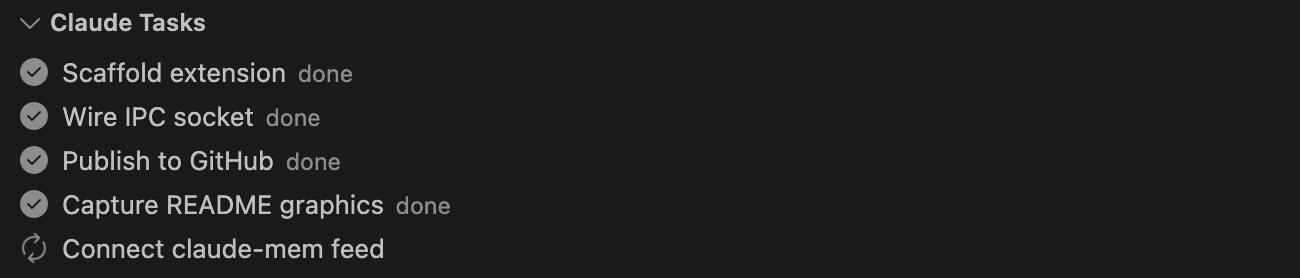
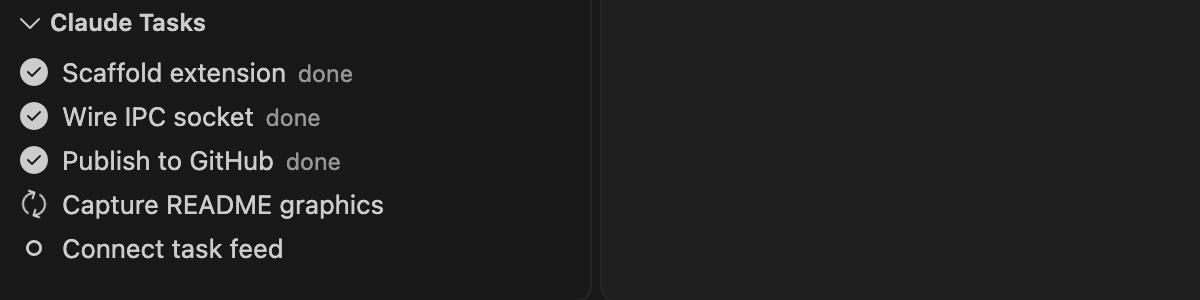
ETA: fix the inflated first estimate, add a confidence signal
The first ETA was wrong by roughly 7x. The interval before the first
completed task covers startup, thinking and tool calls, but was being
recorded as 'one task took that long' -- and with an EMA that poisoned
samples it dominated for the rest of the session.

- discard the pre-first-completion interval instead of sampling it
- median of the last 5 durations rather than an EMA, so one stalled task
  (a long build, a big read) no longer drags every later estimate
- grade each estimate rough/fair/good from sample count and spread; a
  rough one shows a trailing '?' and the tooltip states it is an
  estimate, what it is based on, and that it sharpens as a session runs
- round output to a precision the estimate supports (no '1m 53s')

Measured on simulated sessions with a 30s startup, mean error over the
session: steady 155%->0%, one long stall 215%->25%, noisy 128%->30%.

Screenshots recaptured from the running extension; README documents the
accuracy, the grades and the limits.

diff --git a/src/etaEstimator.ts b/src/etaEstimator.ts
@@ -1,26 +1,49 @@
-const ALPHA = 0.3;
+/** Samples kept for the running median. Small enough to track a changing pace. */
+const WINDOW = 5;
+
+/** Below this many samples the estimate is a guess and is labelled as one. */
+const ROUGH_SAMPLES = 3;
+
+/** Spread (range / median) above this means the pace is too erratic to trust. */
+const NOISY_SPREAD = 1.5;
+
+export type Confidence = "none" | "rough" | "fair" | "good";
+
+export interface Estimate {
+  ms: number;
+  confidence: Confidence;
+  /** Completed-task durations backing it. Shown in the tooltip. */
+  samples: number;
+}
 
 /**
- * EMA of wall-clock duration per completed task.
+ * Estimates time remaining from how long completed tasks actually took.
  *
- * Only advances on a rising `completed` count: statusLine re-fires on every
- * session event, so sampling every push would flood the average with ~0ms
- * intervals and drive the ETA to zero.
+ * Uses a median of the last few durations rather than a mean/EMA: one stalled
+ * task would drag a mean for a long time, and in a Claude Code session stalls
+ * are common (a long tool call, a big file read, waiting on a build).
+ *
+ * The interval before the FIRST completion is discarded. It covers startup,
+ * thinking and tool calls that happened before any task finished, so counting
+ * it as "one task's duration" inflated the first ETA several-fold — and with an
+ * EMA that first bad sample then polluted every later estimate.
+ *
+ * Accuracy improves as a session runs: 1 sample is reported as `rough`, and
+ * confidence rises as samples accumulate and their spread narrows.
  */
 export class EtaEstimator {
-  private ema: number | undefined;
+  private readonly durations: number[] = [];
   private lastCompleted = 0;
   private lastStamp: number | undefined;
+  private sawFirstCompletion = false;
 
   constructor(private readonly now: () => number = Date.now) {}
 
   update(completed: number, total: number): void {
-    if (total <= 0 || completed < 0) {
-      return;
-    }
+    if (total <= 0 || completed < 0) return;
     const t = this.now();
 
-    // Restart (new session, or list shrank/reset) — rebaseline, don't sample.
+    // List shrank — new session or a reset. Rebaseline instead of sampling.
     if (completed < this.lastCompleted) {
       this.reset();
       this.lastCompleted = completed;
@@ -30,41 +53,78 @@ export class EtaEstimator {
 
     const advanced = completed - this.lastCompleted;
     if (advanced === 0) {
-      // First sighting still needs a clock origin to measure the next step from.
+      // statusLine re-fires constantly; only establish a clock origin.
       this.lastStamp ??= t;
       return;
     }
 
     if (this.lastStamp !== undefined) {
-      const perTask = (t - this.lastStamp) / advanced;
-      if (perTask > 0) {
-        this.ema = this.ema === undefined ? perTask : ALPHA * perTask + (1 - ALPHA) * this.ema;
+      if (!this.sawFirstCompletion) {
+        // Startup interval, not task work. Discard it and start the clock here.
+        this.sawFirstCompletion = true;
+      } else {
+        const perTask = (t - this.lastStamp) / advanced;
+        if (perTask > 0) {
+          // A burst of N completions in one push gives N copies of the same
+          // average, which would wrongly dominate the window. Record one.
+          this.durations.push(perTask);
+          if (this.durations.length > WINDOW) this.durations.shift();
+        }
       }
     }
+
     this.lastCompleted = completed;
     this.lastStamp = t;
   }
 
-  /** Milliseconds remaining, or undefined when not yet estimable. */
-  remainingMs(completed: number, total: number): number | undefined {
+  /** Remaining time with a confidence grade, or undefined when not estimable. */
+  estimate(completed: number, total: number): Estimate | undefined {
     if (total <= 0) return undefined;
     const left = Math.max(0, total - completed);
-    if (left === 0) return 0;
-    if (this.ema === undefined) return undefined;
-    return left * this.ema;
+    if (left === 0) return { ms: 0, confidence: "good", samples: this.durations.length };
+    if (this.durations.length === 0) return undefined;
+
+    const per = median(this.durations);
+    return {
+      ms: left * per,
+      confidence: this.confidence(per),
+      samples: this.durations.length,
+    };
+  }
+
+  private confidence(per: number): Confidence {
+    const n = this.durations.length;
+    if (n < ROUGH_SAMPLES) return "rough";
+
+    // Range relative to the median: how consistent the pace has been.
+    const sorted = [...this.durations].sort((a, b) => a - b);
+    const spread = per > 0 ? (sorted[sorted.length - 1] - sorted[0]) / per : 0;
+    if (spread > NOISY_SPREAD) return "rough";
+    return n >= WINDOW && spread < NOISY_SPREAD / 2 ? "good" : "fair";
   }
 
   reset(): void {
-    this.ema = undefined;
+    this.durations.length = 0;
     this.lastCompleted = 0;
     this.lastStamp = undefined;
+    this.sawFirstCompletion = false;
   }
 }
 
-/** "3m", "1h 5m", "12s" — compact enough for a status bar. */
+function median(xs: number[]): number {
+  const s = [...xs].sort((a, b) => a - b);
+  const mid = s.length >> 1;
+  return s.length % 2 ? s[mid] : (s[mid - 1] + s[mid]) / 2;
+}
+
+/**
+ * Rounds to a precision the estimate actually supports — "~2m" rather than
+ * "1m 53s", which would imply accuracy that isn't there.
+ */
 export function formatDuration(ms: number): string {
   const s = Math.max(0, Math.round(ms / 1000));
-  if (s < 60) return `${s}s`;
+  if (s < 10) return "<10s";
+  if (s < 60) return `${Math.round(s / 5) * 5}s`;
   const m = Math.round(s / 60);
   if (m < 60) return `${m}m`;
   const h = Math.floor(m / 60);

diff --git a/src/etaEstimator.test.js b/src/etaEstimator.test.js
@@ -2,35 +2,92 @@
 const assert = require("assert");
 const { EtaEstimator, formatDuration } = require("../out/etaEstimator.js");
 
-let now = 0;
-const est = new EtaEstimator(() => now);
+/** Drives the estimator on a fake clock: completions at given durations apart. */
+function session(firstGap, durations, total) {
+  let now = 0;
+  const est = new EtaEstimator(() => now);
+  est.update(0, total);
+  now += firstGap;
+  est.update(1, total); // startup interval — discarded by design
+  let completed = 1;
+  for (const d of durations) {
+    now += d;
+    est.update(++completed, total);
+  }
+  return { est, completed, at: (t) => (now = t), hold: (d) => (now += d) };
+}
 
-// No samples yet -> not estimable, but must not throw.
-est.update(0, 10);
-assert.strictEqual(est.remainingMs(0, 10), undefined, "no sample => undefined");
+// --- nothing to go on ---------------------------------------------------
+{
+  const est = new EtaEstimator(() => 0);
+  est.update(0, 10);
+  assert.strictEqual(est.estimate(0, 10), undefined, "no completions => no estimate");
+  assert.strictEqual(est.estimate(0, 0), undefined, "zero total => undefined");
+}
 
-// Steady 1000ms per task.
-for (let i = 1; i <= 4; i++) { now += 1000; est.update(i, 10); }
-const eta = est.remainingMs(4, 10);
-assert.ok(Math.abs(eta - 6000) < 500, `steady rate => ~6000ms, got ${eta}`);
+// --- the startup interval must NOT become a sample ----------------------
+// Regression: 30s of setup before task 1 was read as "one task took 30s",
+// inflating the first ETA ~7x and polluting every later estimate.
+{
+  const s = session(30000, [], 10);
+  assert.strictEqual(s.est.estimate(1, 10), undefined, "first completion yields no sample");
 
-// Repeated pushes with no progress must not decay the estimate.
-const before = est.remainingMs(4, 10);
-now += 5000; est.update(4, 10);
-now += 5000; est.update(4, 10);
-assert.strictEqual(est.remainingMs(4, 10), before, "idle pushes must not change EMA");
+  const s2 = session(30000, [5000], 10);
+  const e = s2.est.estimate(2, 10);
+  assert.ok(Math.abs(e.ms - 8 * 5000) < 1, `expected 8x5s, got ${e.ms}`);
+  assert.strictEqual(e.confidence, "rough", "one sample is a rough guess");
+  assert.strictEqual(e.samples, 1);
+}
 
-// Sudden completion.
-now += 1000; est.update(10, 10);
-assert.strictEqual(est.remainingMs(10, 10), 0, "all done => 0");
+// --- steady pace: accurate, and confidence climbs with evidence ---------
+{
+  const few = session(10000, [5000, 5000], 10);
+  assert.strictEqual(few.est.estimate(3, 10).confidence, "rough", "2 samples is still rough");
 
-// Zero tasks / restart.
-assert.strictEqual(est.remainingMs(0, 0), undefined, "zero total => undefined");
-const e2 = new EtaEstimator(() => now);
-e2.update(5, 10); now += 1000; e2.update(2, 10);  // list shrank
-assert.strictEqual(e2.remainingMs(2, 10), undefined, "restart rebaselines");
+  const s = session(10000, [5000, 5000, 5000], 10);
+  const mid = s.est.estimate(4, 10);
+  assert.ok(Math.abs(mid.ms - 6 * 5000) < 1, "steady 5s/task");
+  assert.strictEqual(mid.confidence, "fair", "3 consistent samples => fair");
 
-assert.strictEqual(formatDuration(45000), "45s");
+  const long = session(10000, [5000, 5000, 5000, 5000, 5000, 5000], 10);
+  const late = long.est.estimate(7, 10);
+  assert.strictEqual(late.confidence, "good", "5 consistent samples => good");
+  assert.strictEqual(late.samples, 5, "window caps at 5");
+  assert.ok(Math.abs(late.ms - 3 * 5000) < 1, "3 tasks left x 5s");
+}
+
+// --- one stalled task must not dominate (median, not mean) --------------
+{
+  const s = session(1000, [5000, 5000, 120000, 5000, 5000], 10);
+  const e = s.est.estimate(6, 10);
+  const perTask = e.ms / 4;
+  assert.ok(perTask < 10000, `median ignores the 120s stall, got ${perTask}ms/task`);
+  assert.strictEqual(e.confidence, "rough", "a wide spread is reported as rough");
+}
+
+// --- idle refreshes must not move the estimate --------------------------
+{
+  const s = session(5000, [5000, 5000], 10);
+  const before = s.est.estimate(3, 10).ms;
+  s.hold(60000); s.est.update(3, 10);
+  s.hold(99000); s.est.update(3, 10);
+  assert.strictEqual(s.est.estimate(3, 10).ms, before, "idle pushes must not change the ETA");
+}
+
+// --- completion, and restart when the list shrinks ----------------------
+{
+  const s = session(1000, [2000], 5);
+  s.est.update(5, 5);
+  assert.strictEqual(s.est.estimate(5, 5).ms, 0, "all done => 0");
+
+  s.hold(1000);
+  s.est.update(1, 5); // list shrank => new session
+  assert.strictEqual(s.est.estimate(1, 5), undefined, "restart clears samples");
+}
+
+// --- formatting rounds to a precision the estimate actually supports ----
+assert.strictEqual(formatDuration(4000), "<10s");
+assert.strictEqual(formatDuration(47000), "45s");
 assert.strictEqual(formatDuration(180000), "3m");
 assert.strictEqual(formatDuration(3900000), "1h 5m");
 

diff --git a/src/statusBar.ts b/src/statusBar.ts
@@ -1,5 +1,5 @@
 import * as vscode from "vscode";
-import { EtaEstimator, formatDuration } from "./etaEstimator";
+import { Confidence, EtaEstimator, formatDuration } from "./etaEstimator";
 import { Payload } from "./protocol";
 
 export class StatusBarManager implements vscode.Disposable {
@@ -33,13 +33,17 @@ export class StatusBarManager implements vscode.Disposable {
     const done = completed >= total;
     const icon = done ? "$(check)" : "$(sync~spin)";
 
-    const ms = this.eta.remainingMs(completed, total);
-    const suffix = done ? "" : ms === undefined ? "" : ` (~${formatDuration(ms)} left)`;
+    const est = done ? undefined : this.eta.estimate(completed, total);
+    // "~" and a rounded figure already read as approximate; "?" marks the ones
+    // built on too few or too erratic samples to lean on.
+    const suffix = est ? ` (~${formatDuration(est.ms)} left${est.confidence === "rough" ? "?" : ""})` : "";
 
     this.tasks.text = `${icon} [${completed}/${total}] ${pct}%${suffix}`;
-    this.tasks.tooltip = list.length
-      ? list.map((t) => `${glyph(t.status)} ${t.content}`).join("\n")
-      : `${completed} of ${total} complete`;
+
+    const lines = list.length
+      ? list.map((t) => `${glyph(t.status)} ${t.content}`)
+      : [`${completed} of ${total} complete`];
+    this.tasks.tooltip = [...lines, "", etaNote(est)].join("\n");
     this.tasks.show();
   }
 
@@ -77,6 +81,28 @@ function resetsIn(resetsAt?: number): string | undefined {
   if (!resetsAt) return undefined;
   const ms = resetsAt * 1000 - Date.now();
   return ms > 0 ? formatDuration(ms) : undefined;
+}
+
+/**
+ * The disclaimer. The ETA is a projection from past task durations, never a
+ * schedule, so the tooltip says so plainly and reports what it is based on.
+ */
+function etaNote(est: { confidence: Confidence; samples: number } | undefined): string {
+  if (!est) {
+    return "ETA: not yet — it needs one completed task to measure.";
+  }
+  const basis = `${est.samples} completed task${est.samples === 1 ? "" : "s"}`;
+  const grade: Record<Confidence, string> = {
+    rough: "rough guess",
+    fair: "fair estimate",
+    good: "steady pace",
+    none: "estimate",
+  };
+  return [
+    `ETA: estimated, not exact (${grade[est.confidence]}, from ${basis}).`,
+    "It projects your recent pace onto the remaining tasks and gets more",
+    "accurate the longer the session runs.",
+  ].join("\n");
 }
 
 function glyph(s: string): string {
